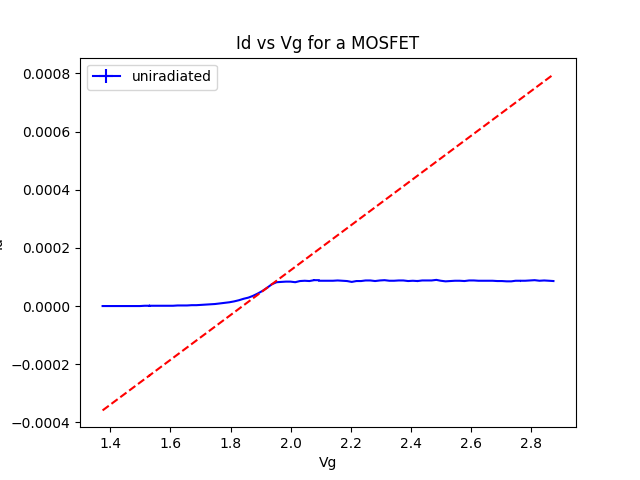
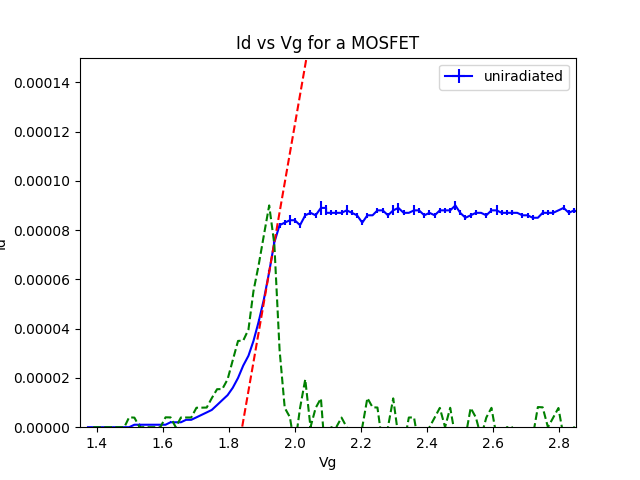
cleaned up and added derivative method

diff --git a/analysis.py b/analysis.py
@@ -3,6 +3,10 @@ import numpy as np
 import matplotlib.pyplot as plt
 import scipy.stats as stats
 
+iv_graph = True
+steepest_line = True
+derivative = True
+
 #parse xml file
 data_file = 'Data/Ba133_uniradiated_linear.xml'
 
@@ -29,50 +33,78 @@ def xml_to_datasets(data_file):
         datasets.append(item)
     return datasets
 
-datasets = xml_to_datasets(data_file)
-
 #plot data
-i = 0
-for dataset in datasets:
-    currents = dataset[0][0]
-    current_std = dataset[0][1]
-    voltages = dataset[1][0]
-    voltage_std = dataset[1][1]
-    if i % 10 == 0:
-        plt.errorbar(voltages,currents,xerr = voltage_std, yerr = current_std, label = "uniradiated", color = (i/len(voltages), 0, 1 - i/len(voltages)))
-    else:
-        plt.errorbar(voltages,currents,xerr = voltage_std, yerr = current_std, color = (i/len(voltages), 0, 1 - i/len(voltages)))
-    i+=1
+def plot_iv(datasets):
+    i = 0
+    for dataset in datasets:
+        currents = dataset[0][0]
+        current_std = dataset[0][1]
+        voltages = dataset[1][0]
+        voltage_std = dataset[1][1]
+        if i % 10 == 0:
+            plt.errorbar(voltages,currents,xerr = voltage_std, yerr = current_std, label = "uniradiated", color = (i/len(voltages), 0, 1 - i/len(voltages)))
+        else:
+            plt.errorbar(voltages,currents,xerr = voltage_std, yerr = current_std, color = (i/len(voltages), 0, 1 - i/len(voltages)))
+        i+=1
 
 #linear fit at steepest point to find threshold voltage
-for dataset in datasets:
-    currents = dataset[0][0]
-    current_std = dataset[0][1]
-    voltages = dataset[1][0]
-    voltage_std = dataset[1][1]
-    max_derivative = 0
-    max_derivative_index = 0
-    for i in range(len(currents) - 1):
-        gradient = (currents[i + 1] - currents[i]) / (voltages[i + 1] - voltages[i])
-        if gradient > max_derivative and currents[i] > 0:
-            max_derivative = gradient
-            max_derivative_index = i
-            gradient_err = gradient * np.sqrt((current_std[i] / currents[i])**2 + (voltage_std[i + 1] / voltages[i + 1])**2 + (voltage_std[i] / voltages[i])**2)
-    f = lambda x : max_derivative * (x - voltages[max_derivative_index]) + currents[max_derivative_index]
-    plt.errorbar(voltages, list(map(f,(voltages))),fmt="--", color = 'red')
+def plot_steepest_line(datasets):
+    for dataset in datasets:
+        currents = dataset[0][0]
+        current_std = dataset[0][1]
+        voltages = dataset[1][0]
+        voltage_std = dataset[1][1]
+        max_derivative = 0
+        max_derivative_index = 0
+        for i in range(len(currents) - 1):
+            gradient = (currents[i + 1] - currents[i]) / (voltages[i + 1] - voltages[i])
+            if gradient > max_derivative and currents[i] > 0:
+                max_derivative = gradient
+                max_derivative_index = i
+                gradient_err = gradient * np.sqrt((current_std[i] / currents[i])**2 + (voltage_std[i + 1] / voltages[i + 1])**2 + (voltage_std[i] / voltages[i])**2)
+        f = lambda x : max_derivative * (x - voltages[max_derivative_index]) + currents[max_derivative_index]
+        plt.errorbar(voltages, list(map(f,(voltages))),fmt="--", color = 'red')
 
-    #error calculations
-    x_intercept = (-currents[max_derivative_index] / max_derivative) + voltages[max_derivative_index]
-    error = np.sqrt((currents[max_derivative_index] / max_derivative) * np.sqrt((current_std[max_derivative_index] / currents[max_derivative_index])**2 + (gradient_err / max_derivative)**2)**2 + voltage_std[max_derivative_index]**2)
-    print("Threshold voltage: ", x_intercept, "+/-", error)
+        #error calculations
+        x_intercept = (-currents[max_derivative_index] / max_derivative) + voltages[max_derivative_index]
+        error = np.sqrt((currents[max_derivative_index] / max_derivative) * np.sqrt((current_std[max_derivative_index] / currents[max_derivative_index])**2 + (gradient_err / max_derivative)**2)**2 + voltage_std[max_derivative_index]**2)
+        print("Threshold voltage: ", x_intercept, "+/-", error)
 
+#calculate and plot derivative
+def plot_derivative(datasets):
+    for dataset in datasets:
+        currents = dataset[0][0]
+        voltages = dataset[1][0]
+        derivative = np.array([])
+        for i in range(1, len(currents) - 1):
+            gradient = (currents[i + 1] - currents[i - 1]) / (voltages[i + 1] - voltages[i - 1])
+            derivative = np.append(derivative, gradient)
+        max_current = max(currents)
+        scaled_derivative = derivative * (max_current / max(derivative))
+        plt.errorbar(voltages[1:-1],scaled_derivative,fmt="--", color = 'green')
+        derivative = list(derivative)
+        index_max_derivative = derivative.index(max(derivative))
+        max_derivative_voltage = voltages[index_max_derivative + 1]
+        error = max((voltages[index_max_derivative + 2]) - max_derivative_voltage, max_derivative_voltage - voltages[index_max_derivative])
+        print("Derivative Maximum: ", max_derivative_voltage, "+/-", error)
+
+
+
+datasets = xml_to_datasets(data_file)
 # make graph things
+if iv_graph:
+    plot_iv(datasets)
+if steepest_line:
+    plot_steepest_line(datasets)
+if derivative:
+    plot_derivative(datasets)
+
 title = "Id vs Vg for a MOSFET"
 plt.legend()
 plt.title(title)
 plt.ylabel('Id')
 plt.xlabel('Vg')
-#plt.xlim(1.35, 2.85)
-#plt.ylim(0, 0.00015)
+plt.xlim(1.35, 2.85)
+plt.ylim(0, 0.00015)
 plt.savefig(fname = "Graphs/"+data_file[5:-4]+".png")
 plt.show()
